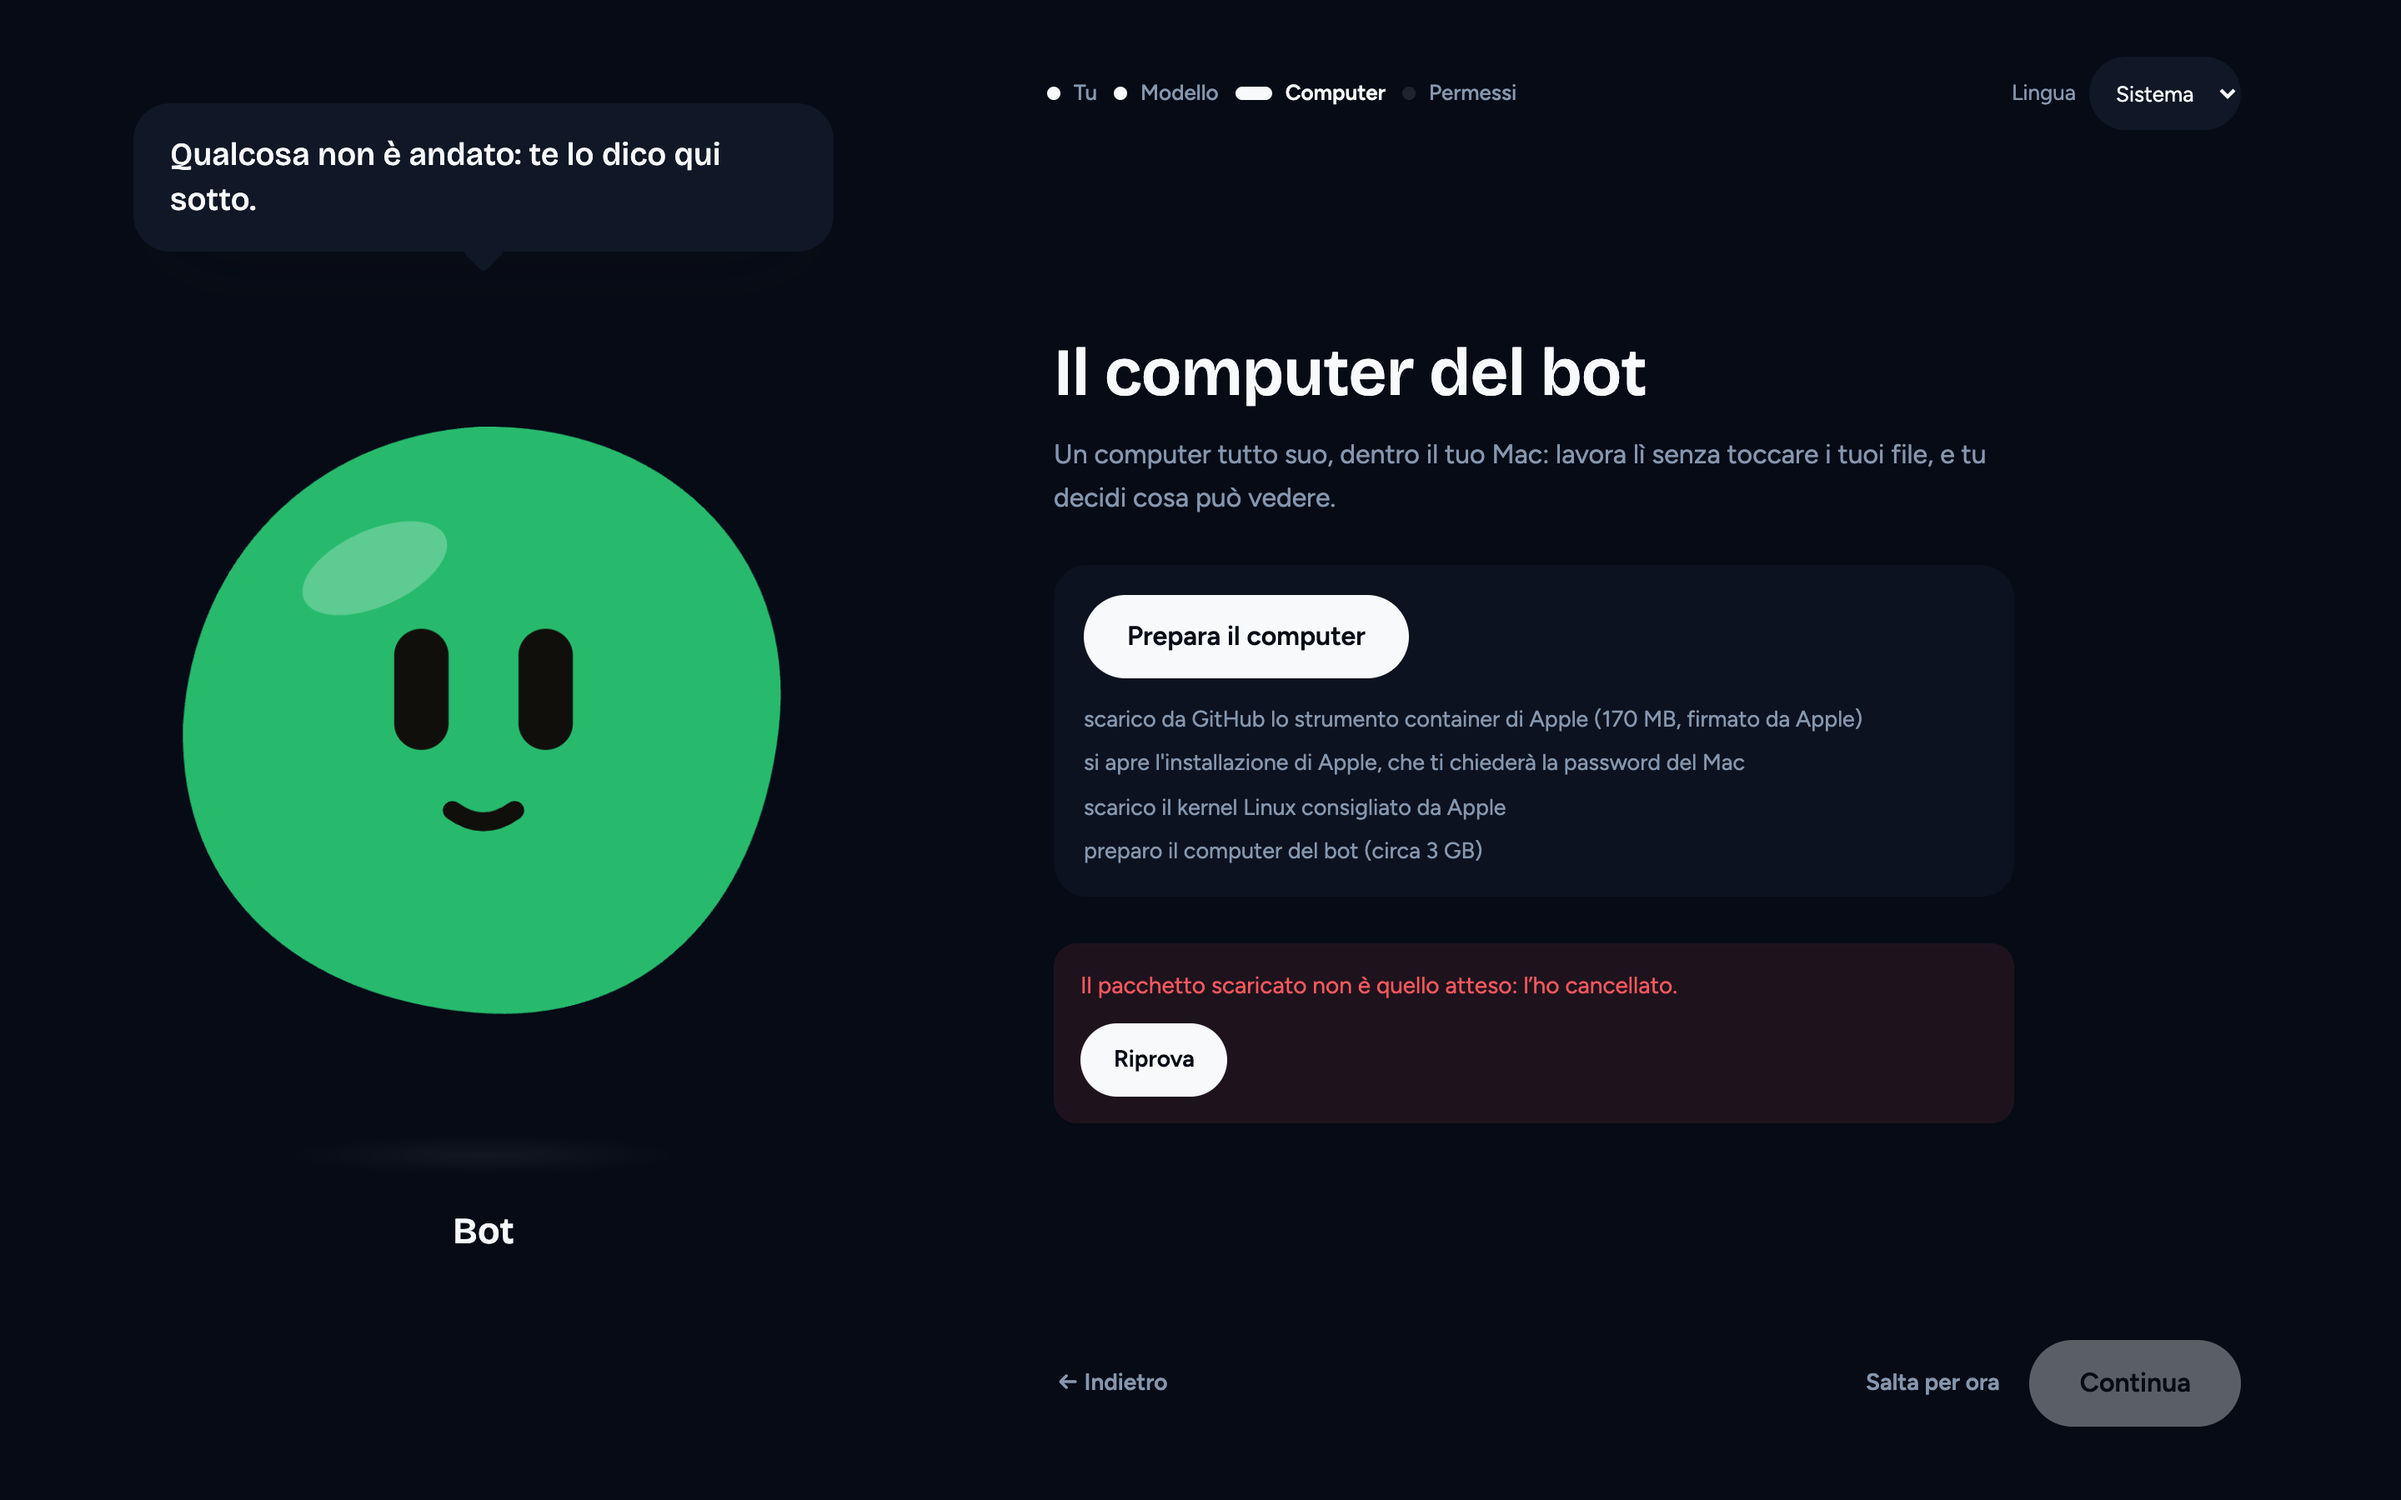
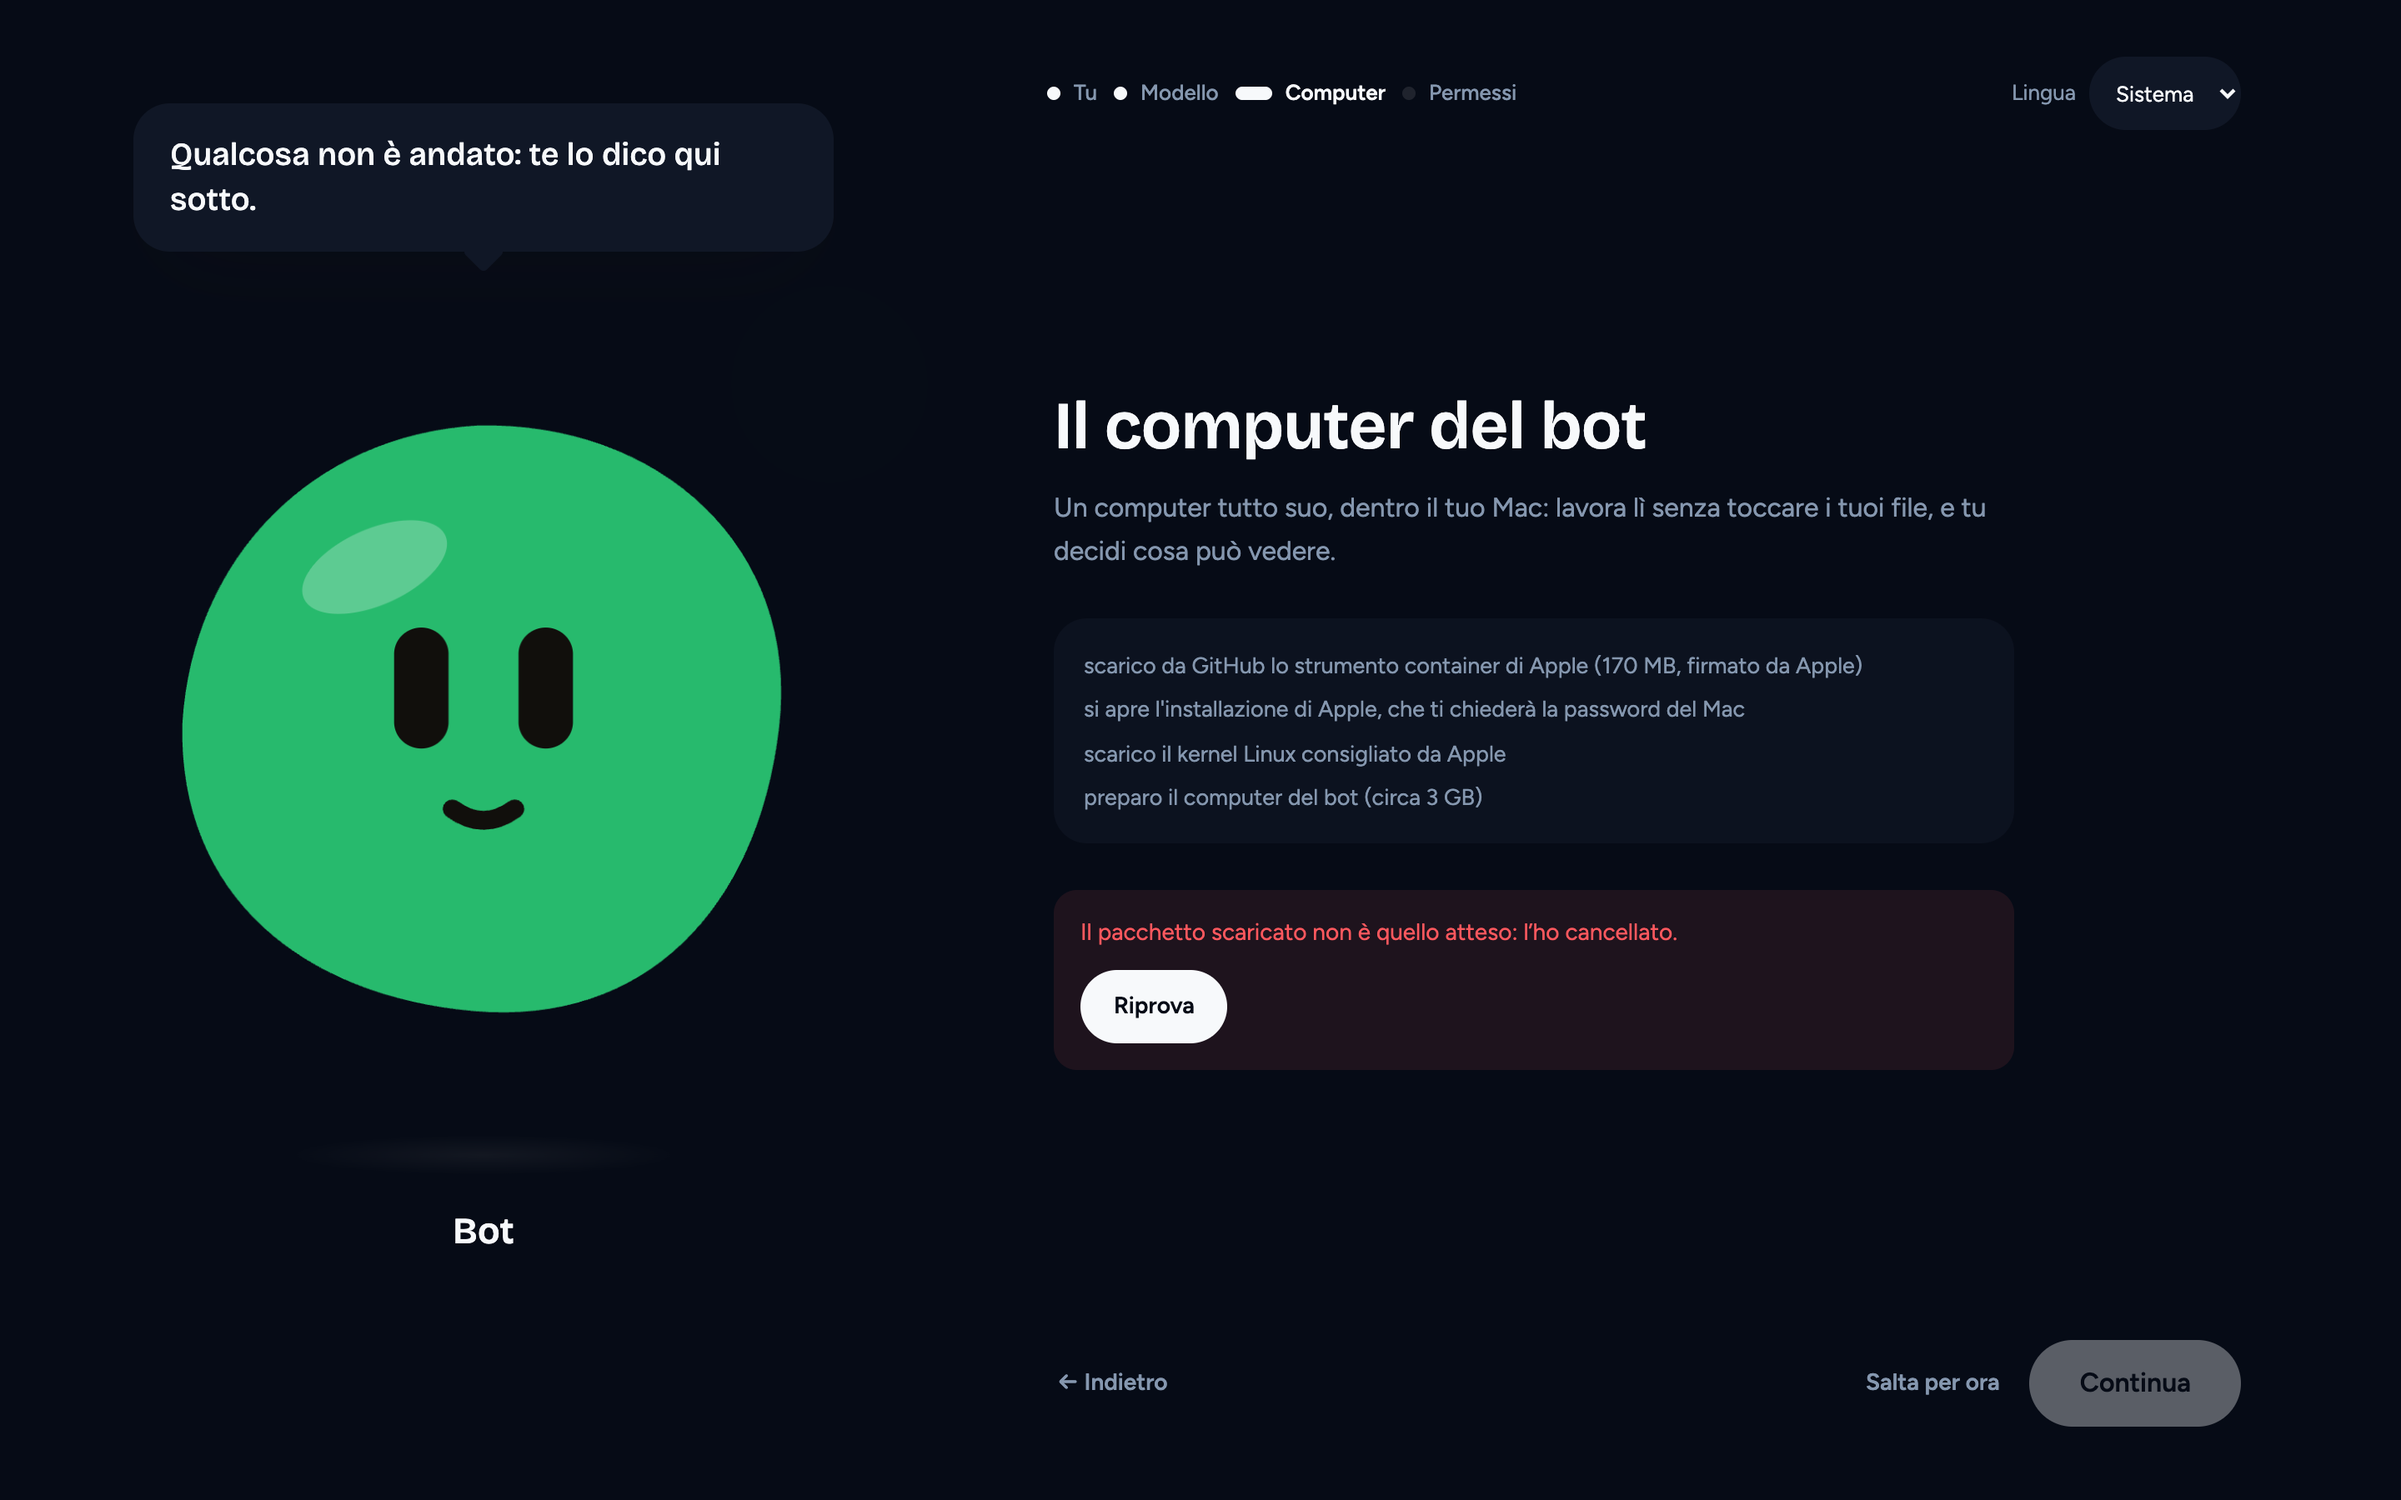
OBR4 (fase onboarding-b-rafforzamenti): un solo bottone nell'errore — «Riprova»
Nello stato error il passo Computer mostrava insieme «Prepara il
computer» e «Riprova», che fanno la stessa cosa. Con error resta solo il
riquadro dell'errore con «Riprova»; il consenso — le quattro righe di
cosa farà la preparazione — resta visibile sopra in testo, senza
bottone. La stessa regola vale in Impostazioni › Generali (OB3): il
bottone «Installa» sparisce quando la preparazione è in errore
(engineRowAction, pura; «Accendi» e «Installa il kernel» di BX4 restano
perché non sono la preparazione). Test di rendering visti ROSSI prima
(4): «Prepara il computer» assente col consenso ancora in testo e UN
solo bottone nel pannello; engineRowAction e la guardia sul sorgente
della scheda del motore. Catture ob-computer-errore-1440-chiaro/scuro
rigenerate CON LO STESSO NOME dalla sonda (78/78); tutte le altre
catture toccate dalla corsa sono state ripristinate col checkout.

Changed region(s): [[0.4375, 0.2178, 0.8125, 0.5911], [0.4375, 0.6222, 0.6875, 0.7467]]

diff --git a/src/renderer/src/components/settings/EngineSection.tsx b/src/renderer/src/components/settings/EngineSection.tsx
@@ -61,6 +61,21 @@ export function engineChoiceLabel(id: 'auto' | 'apple-container' | 'docker'): Me
   }
 }
 
+/**
+ * OBR4: l'azione che la riga del motore MOSTRA (pura). Con la preparazione
+ * in ERRORE il bottone «Installa» sparisce: fa la stessa cosa di «Riprova»
+ * (riparte la stessa preparazione) e il riquadro dell'errore deve restare
+ * l'UNICO bottone. «Accendi» e «Installa il kernel» (BX4) non sono la
+ * preparazione: restano.
+ */
+export function engineRowAction(
+  action: 'start' | 'kernel' | 'install' | 'install-link' | null,
+  setupPhase: import('../../../../shared/types').BoxSetupPhase | null
+): 'start' | 'kernel' | 'install' | 'install-link' | null {
+  if (action === 'install' && setupPhase === 'error') return null
+  return action
+}
+
 export function EngineSection() {
   const { i18n } = useLingui()
   const [st, setSt] = useState<EngineStatusInfo | null>(null)
@@ -123,6 +138,9 @@ export function EngineSection() {
   }
 
   const status = st ? engineStatusText(st) : null
+  // OBR4: l'azione che la riga mostra passa da qui — con la preparazione in
+  // errore «Installa» sparisce (resta solo «Riprova», nel riquadro dell'errore)
+  const rowAction = engineRowAction(status?.action ?? null, boxSetup?.phase ?? null)
   // OB3: la lista d'avanzamento si mostra quando la preparazione CORRE (o è
   // ferma su un errore da riprovare) — a ready basta la riga del motore
   const showProgress = boxSetup !== null && (boxSetupActive(boxSetup.phase) || boxSetup.phase === 'error')
@@ -143,7 +161,7 @@ export function EngineSection() {
               </p>
             )}
           </div>
-          {status?.action === 'start' && (
+          {rowAction === 'start' && (
             <button
               className="shrink-0 rounded-full bg-foreground px-3 py-1.5 text-xs text-background outline-none transition focus-visible:ring-[3px] focus-visible:ring-ring/50 disabled:opacity-40"
               disabled={busy}
@@ -152,7 +170,7 @@ export function EngineSection() {
               {i18n._(msg`Accendi`)}
             </button>
           )}
-          {status?.action === 'kernel' && (
+          {rowAction === 'kernel' && (
             <button
               className="shrink-0 rounded-full bg-foreground px-3 py-1.5 text-xs text-background outline-none transition focus-visible:ring-[3px] focus-visible:ring-ring/50 disabled:opacity-40"
               disabled={busy}
@@ -161,8 +179,9 @@ export function EngineSection() {
               {i18n._(msg`Installa il kernel`)}
             </button>
           )}
-          {/* OB3: «Installa» avvia la STESSA preparazione della guida */}
-          {status?.action === 'install' && (
+          {/* OB3: «Installa» avvia la STESSA preparazione della guida.
+              OBR4: con la preparazione in errore non c'è (rowAction) */}
+          {rowAction === 'install' && (
             <button
               className="shrink-0 rounded-full bg-foreground px-3 py-1.5 text-xs text-background outline-none transition focus-visible:ring-[3px] focus-visible:ring-ring/50 disabled:opacity-40"
               disabled={busy}

diff --git a/src/renderer/src/__tests__/engine-section-computer.test.ts b/src/renderer/src/__tests__/engine-section-computer.test.ts
@@ -13,7 +13,7 @@ import { renderHtml, setStoreStateForRender, parseHtml, findAll } from './render
 import { useStore } from '../store'
 import type { BoxSetupState, EngineStatusInfo } from '../../../shared/types'
 
-const { EngineSection, engineStatusText } = await import('../components/settings/EngineSection')
+const { EngineSection, engineStatusText, engineRowAction } = await import('../components/settings/EngineSection')
 const { stubApiMethod } = await import('./render-helper-install')
 
 const notInstalled = (): EngineStatusInfo => ({
@@ -92,5 +92,41 @@ describe('OB3: la scheda del motore con la preparazione', () => {
   it('pronta o mai partita: nessuna lista (la riga del motore basta)', () => {
     expect(byTestId(renderEngine(null).tree, 'box-setup-progress').length).toBe(0)
     expect(byTestId(renderEngine(setupState({ phase: 'ready' })).tree, 'box-setup-progress').length).toBe(0)
+  })
+})
+
+describe('OBR4: nella scheda del motore, con la preparazione in errore, resta solo «Riprova»', () => {
+  beforeEach(() => {
+    stubApiMethod('boxEngineStatus', () => notInstalled())
+    stubApiMethod('boxSetupState', () => null)
+  })
+
+  it('engineRowAction (pura): con error l\'azione «Installa» sparisce — fa la stessa cosa di «Riprova»', () => {
+    expect(engineRowAction('install', 'error')).toBeNull()
+    // fuori dall'errore «Installa» resta
+    expect(engineRowAction('install', null)).toBe('install')
+    expect(engineRowAction('install', 'idle')).toBe('install')
+    expect(engineRowAction('install', 'cancelled')).toBe('install')
+    // «Accendi» e «Installa il kernel» (BX4) non sono la preparazione: restano
+    expect(engineRowAction('start', 'error')).toBe('start')
+    expect(engineRowAction('kernel', 'error')).toBe('kernel')
+    expect(engineRowAction(null, 'error')).toBeNull()
+  })
+
+  it('il bottone «Installa» passa da quell\'azione (guardia sul sorgente: nel render statico la riga del motore non si carica)', () => {
+    const SRC = readFileSync(fileURLToPath(new URL('../components/settings/EngineSection.tsx', import.meta.url)), 'utf8')
+    expect(SRC).toContain('engineRowAction(status?.action ?? null, boxSetup?.phase ?? null)')
+    expect(SRC).toContain("{rowAction === 'install' && (")
+    expect(SRC).not.toContain("{status?.action === 'install' && (")
+  })
+
+  it("nel render dell'errore: il messaggio, UN «Riprova» e nessun «Installa»", () => {
+    const { html, tree } = renderEngine(setupState({
+      phase: 'error',
+      error: { phase: 'verifying', code: 'sha256', message: 'Il pacchetto scaricato non è quello atteso: l’ho cancellato.' }
+    }))
+    expect(html).toContain('Il pacchetto scaricato non è quello atteso')
+    expect(byTestId(tree, 'engine-setup-retry').length).toBe(1)
+    expect(byTestId(tree, 'engine-install').length).toBe(0)
   })
 })

diff --git a/src/renderer/src/__tests__/guide-computer.test.ts b/src/renderer/src/__tests__/guide-computer.test.ts
@@ -111,6 +111,48 @@ describe('OB2: il pannello del passo Computer', () => {
   })
 })
 
+describe('OBR4: nell\'errore UN solo bottone — «Riprova»', () => {
+  const errorState = (): BoxSetupState => setupState({
+    phase: 'error',
+    error: { phase: 'verifying', code: 'sha256', message: 'Il pacchetto scaricato non è quello atteso: l’ho cancellato.' }
+  })
+
+  it('con error «Prepara il computer» NON c\'è più: resta solo «Riprova», nel riquadro dell\'errore', () => {
+    const { tree } = renderComputer(errorState())
+    // «Prepara il computer» e «Riprova» facevano la stessa cosa: ne resta uno
+    expect(byTestId(tree, 'guide-computer-prepare').length).toBe(0)
+    expect(byTestId(tree, 'guide-computer-retry').length).toBe(1)
+    const box = byTestId(tree, 'guide-computer-error')[0]!
+    expect(findAll(box, (n) => n.attrs['data-testid'] === 'guide-computer-retry').length).toBe(1)
+    // nel pannello del passo c'è UN solo bottone (la navigazione della guida è fuori)
+    const step = byTestId(tree, 'guide-step-computer')[0]!
+    expect(findAll(step, (n) => n.tag === 'button').length).toBe(1)
+  })
+
+  it('il consenso resta visibile SOPRA, in testo: le quattro righe di cosa farà, senza bottone', () => {
+    const { html, tree } = renderComputer(errorState())
+    const consent = byTestId(tree, 'guide-computer-consent')
+    expect(consent.length).toBe(1)
+    expect(findAll(consent[0]!, (n) => n.tag === 'li').length).toBe(4)
+    const text = textOf(consent[0]!)
+    expect(text).toContain('170 MB')
+    expect(text).toContain('password del Mac')
+    expect(text).toContain('kernel Linux consigliato')
+    expect(text).toContain('4 GB')
+    // nessun bottone dentro (né attorno, nello stesso riquadro) al consenso
+    expect(findAll(consent[0]!.parent!, (n) => n.tag === 'button').length).toBe(0)
+    // sopra: il consenso viene PRIMA del riquadro dell'errore
+    expect(html.indexOf('data-testid="guide-computer-consent"')).toBeGreaterThan(-1)
+    expect(html.indexOf('data-testid="guide-computer-consent"')).toBeLessThan(html.indexOf('data-testid="guide-computer-error"'))
+  })
+
+  it('fuori dall\'errore il bottone del consenso c\'è come prima (mai partita)', () => {
+    const { tree } = renderComputer(setupState({}))
+    expect(byTestId(tree, 'guide-computer-prepare').length).toBe(1)
+    expect(byTestId(tree, 'guide-computer-consent').length).toBe(1)
+  })
+})
+
 describe('OB2: la navigazione del passo Computer', () => {
   it('«Continua» SPENTO sull\'attesa dell\'Installer; «Salta per ora» c\'è', () => {
     const { tree } = renderComputer(setupState({ phase: 'awaiting-installer' }))

diff --git a/src/renderer/src/components/GuideComputerStep.tsx b/src/renderer/src/components/GuideComputerStep.tsx
@@ -43,14 +43,19 @@ export function GuideComputerStep() {
 
       {!running && phase !== 'ready' && (
         <div className="flex flex-col gap-3.5 rounded-[20px] bg-card/55 p-[18px]">
-          <button
-            type="button"
-            data-testid="guide-computer-prepare"
-            className="min-h-[44px] self-start rounded-full bg-foreground px-[26px] py-[13px] text-base font-semibold text-background transition hover:opacity-90"
-            onClick={() => { void boxSetupStart() }}
-          >
-            {i18n.t(msg`Prepara il computer`)}
-          </button>
+          {/* OBR4: con l'errore il bottone NON c'è — «Prepara il computer» e
+              «Riprova» farebbero la stessa cosa: resta solo «Riprova», nel
+              riquadro dell'errore qui sotto; il consenso resta, in testo */}
+          {phase !== 'error' && (
+            <button
+              type="button"
+              data-testid="guide-computer-prepare"
+              className="min-h-[44px] self-start rounded-full bg-foreground px-[26px] py-[13px] text-base font-semibold text-background transition hover:opacity-90"
+              onClick={() => { void boxSetupStart() }}
+            >
+              {i18n.t(msg`Prepara il computer`)}
+            </button>
+          )}
           {/* il consenso: cosa farà, IN PAROLE (vale anche per il kernel: lo dice qui) */}
           <ul className="m-0 flex list-none flex-col gap-1.5 pl-0 text-[13.5px] leading-[1.5] text-muted-foreground" data-testid="guide-computer-consent">
             <li>{i18n.t(msg`scarico da GitHub lo strumento container di Apple (170 MB, firmato da Apple)`)}</li>
